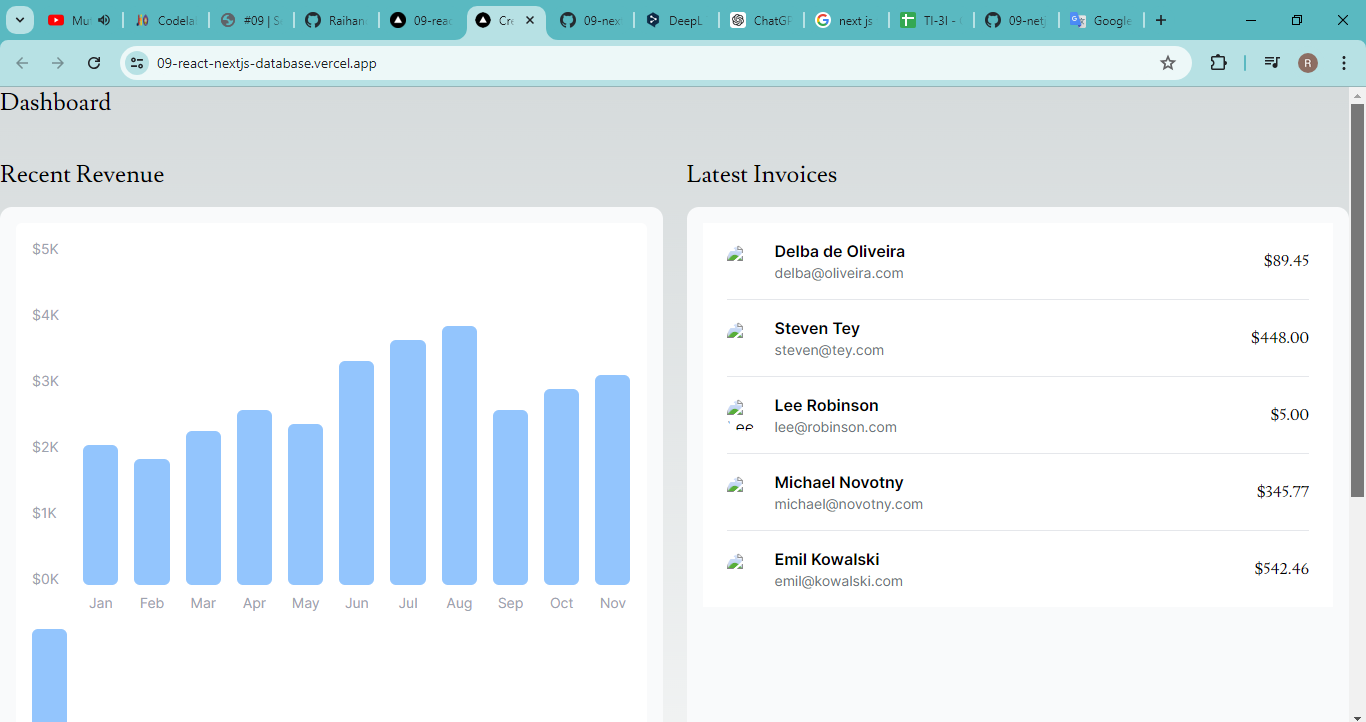
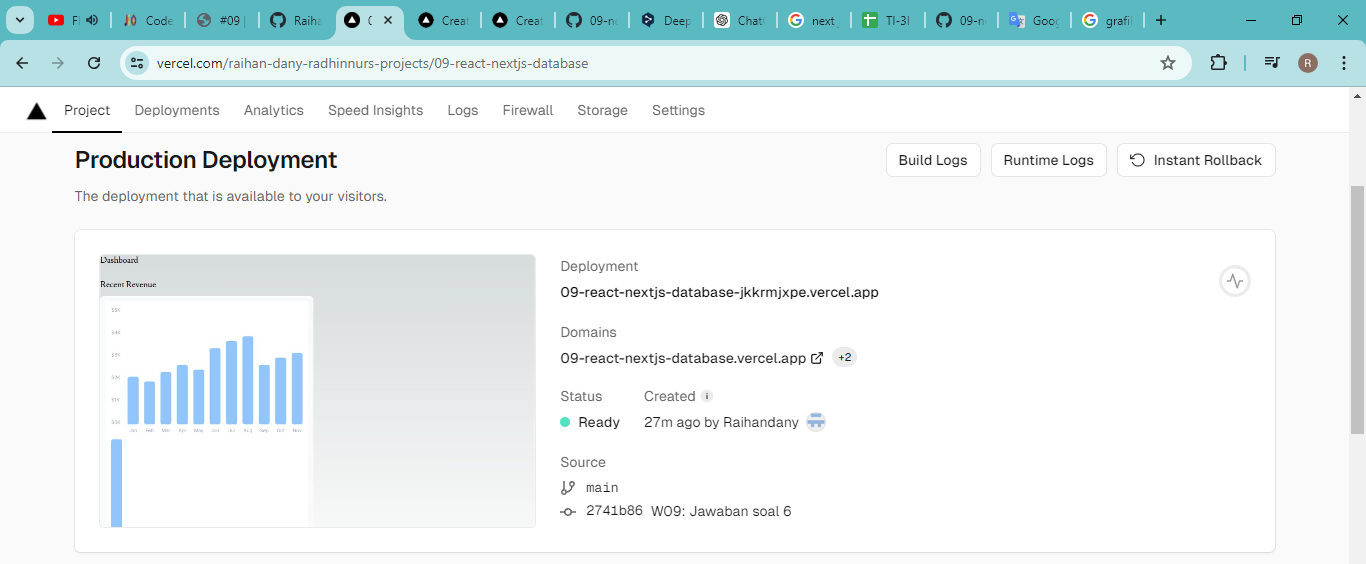
W09: Jawaban soal 7

diff --git a/src/model/query.tsx b/src/model/query.tsx
@@ -37,11 +37,11 @@ export async function fetchLatestInvoices() {
     noStore();
     try {
         const data = await sql<LatestInvoiceRaw>`
-      SELECT invoices.amount, customers.name, customers.image_url, customers.email, invoices.id
-      FROM invoices
-      JOIN customers ON invoices.customer_id = customers.id
-      ORDER BY invoices.date DESC
-      LIMIT 5`;
+            SELECT invoices.amount, customers.name, customers.image_url, customers.email, invoices.id
+            FROM invoices
+            JOIN customers ON invoices.customer_id = customers.id
+            ORDER BY invoices.date DESC
+            LIMIT 5`;
 
         const latestInvoices = data.rows.map((invoice) => ({
             ...invoice,
@@ -100,25 +100,25 @@ export async function fetchFilteredInvoices(
 
     try {
         const invoices = await sql<InvoicesTable>`
-      SELECT
-        invoices.id,
-        invoices.amount,
-        invoices.date,
-        invoices.status,
-        customers.name,
-        customers.email,
-        customers.image_url
-      FROM invoices
-      JOIN customers ON invoices.customer_id = customers.id
-      WHERE
-        customers.name ILIKE ${`%${query}%`} OR
-        customers.email ILIKE ${`%${query}%`} OR
-        invoices.amount::text ILIKE ${`%${query}%`} OR
-        invoices.date::text ILIKE ${`%${query}%`} OR
-        invoices.status ILIKE ${`%${query}%`}
-      ORDER BY invoices.date DESC
-      LIMIT ${ITEMS_PER_PAGE} OFFSET ${offset}
-    `;
+            SELECT
+                invoices.id,
+                invoices.amount,
+                invoices.date,
+                invoices.status,
+                customers.name,
+                customers.email,
+                customers.image_url
+            FROM invoices
+            JOIN customers ON invoices.customer_id = customers.id
+            WHERE
+                customers.name ILIKE ${`%${query}%`} OR
+                customers.email ILIKE ${`%${query}%`} OR
+                invoices.amount::text ILIKE ${`%${query}%`} OR
+                invoices.date::text ILIKE ${`%${query}%`} OR
+                invoices.status ILIKE ${`%${query}%`}
+            ORDER BY invoices.date DESC
+            LIMIT ${ITEMS_PER_PAGE} OFFSET ${offset}
+            `;
 
         return invoices.rows;
     } catch (error) {
@@ -131,15 +131,15 @@ export async function fetchInvoicesPages(query: string) {
     noStore();
     try {
         const count = await sql`SELECT COUNT(*)
-    FROM invoices
-    JOIN customers ON invoices.customer_id = customers.id
-    WHERE
-      customers.name ILIKE ${`%${query}%`} OR
-      customers.email ILIKE ${`%${query}%`} OR
-      invoices.amount::text ILIKE ${`%${query}%`} OR
-      invoices.date::text ILIKE ${`%${query}%`} OR
-      invoices.status ILIKE ${`%${query}%`}
-  `;
+            FROM invoices
+            JOIN customers ON invoices.customer_id = customers.id
+            WHERE
+            customers.name ILIKE ${`%${query}%`} OR
+            customers.email ILIKE ${`%${query}%`} OR
+            invoices.amount::text ILIKE ${`%${query}%`} OR
+            invoices.date::text ILIKE ${`%${query}%`} OR
+            invoices.status ILIKE ${`%${query}%`}
+        `;
 
         const totalPages = Math.ceil(Number(count.rows[0].count) / ITEMS_PER_PAGE);
         return totalPages;

diff --git a/src/app/page.tsx b/src/app/page.tsx
@@ -23,7 +23,7 @@ export default async function Page() {
       </div>
       <div className="mt-6 grid grid-cols-1 gap-6 md:grid-cols-4 lg:grid-cols-8">
         <RevenueChart />
-        {/* <LatestInvoices /> */}
+        <LatestInvoices />
       </div>
     </main>
   );

diff --git a/README.md b/README.md
@@ -71,5 +71,13 @@ Jangan lupa push dengan pesan commit: "W09: Jawaban soal 6"."
 ![Screenshot](assets-report/09-jawaban-soal-6.png)<br />
     In this practicum we got a bar chart, it has 12 months with the starting month January and the last month December. In the height that corresponds to the revenue that we have from the database that has been searched, I did not find any error in starting the revenue bar chart, I just need to delete the comment.
     
+<br />
 
+## Soal 7
+"Lakukan capture dan push hasilnya, kemudian buatlah laporan di file README.md. Jelaskan apa yang telah Anda pelajari ?
+Jangan lupa push dengan pesan commit: "W09: Jawaban soal 7"."
+
+![Screenshot](assets-report/09-jawaban-soal-7.png)<br />
+    In this practicum we try to bring up the data from LatestInvoices, the data that appears in the form of photos, names and emails that have been registered in the database according to the const user and customer.
+    
 <br />
